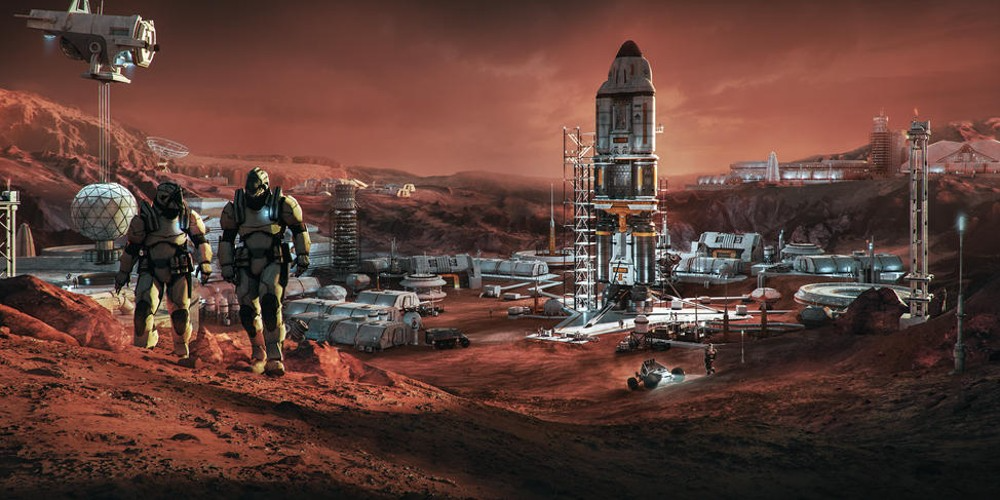
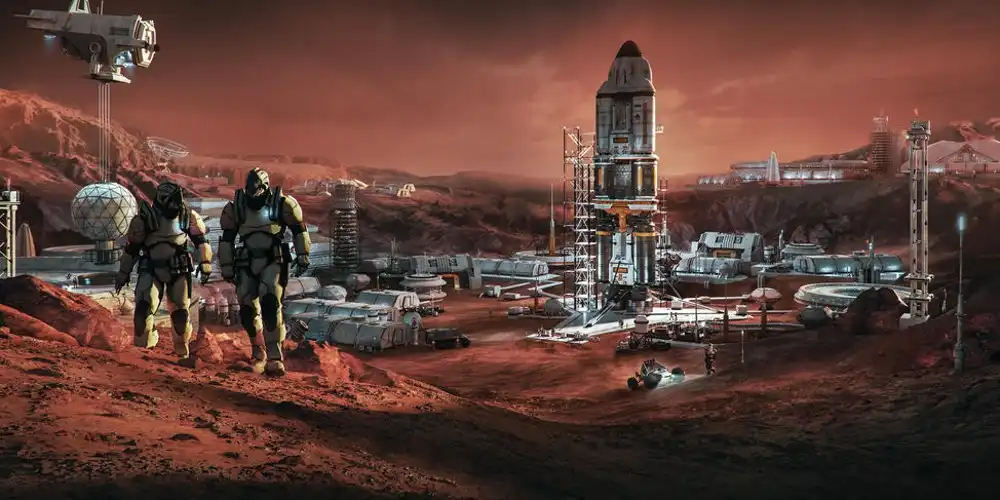
worked on resize

diff --git a/chamber/discover.html b/chamber/discover.html
@@ -24,10 +24,10 @@
 
 <body>
     <header>
-        <img src="images/logo.png" alt="Chamber Logo" class="logo">
+        <img src="images/logo.webp" alt="Chamber Logo" class="logo">
         <h1>Noachis Terra, Mars - Mars Chamber of Commerce</h1>
         <button id="dark-mode">
-            <img src="images/dark.png" alt="Dark Mode">
+            <img src="images/dark.webp" alt="Dark Mode">
         </button>
     </header>
     <button id="menu"></button>

diff --git a/chamber/scripts/hambMenu.js b/chamber/scripts/hambMenu.js
@@ -13,9 +13,9 @@ let dark = false;
 
 darkMode.addEventListener("click", () => {
   if (dark) {
-    btnImg.src = "images/dark.png";
+    btnImg.src = "images/dark.webp";
   } else {
-    btnImg.src = "images/light-inversed.png";
+    btnImg.src = "images/light-inversed.webp";
   }
   dark = !dark;
   document.body.classList.toggle("dark-theme");
